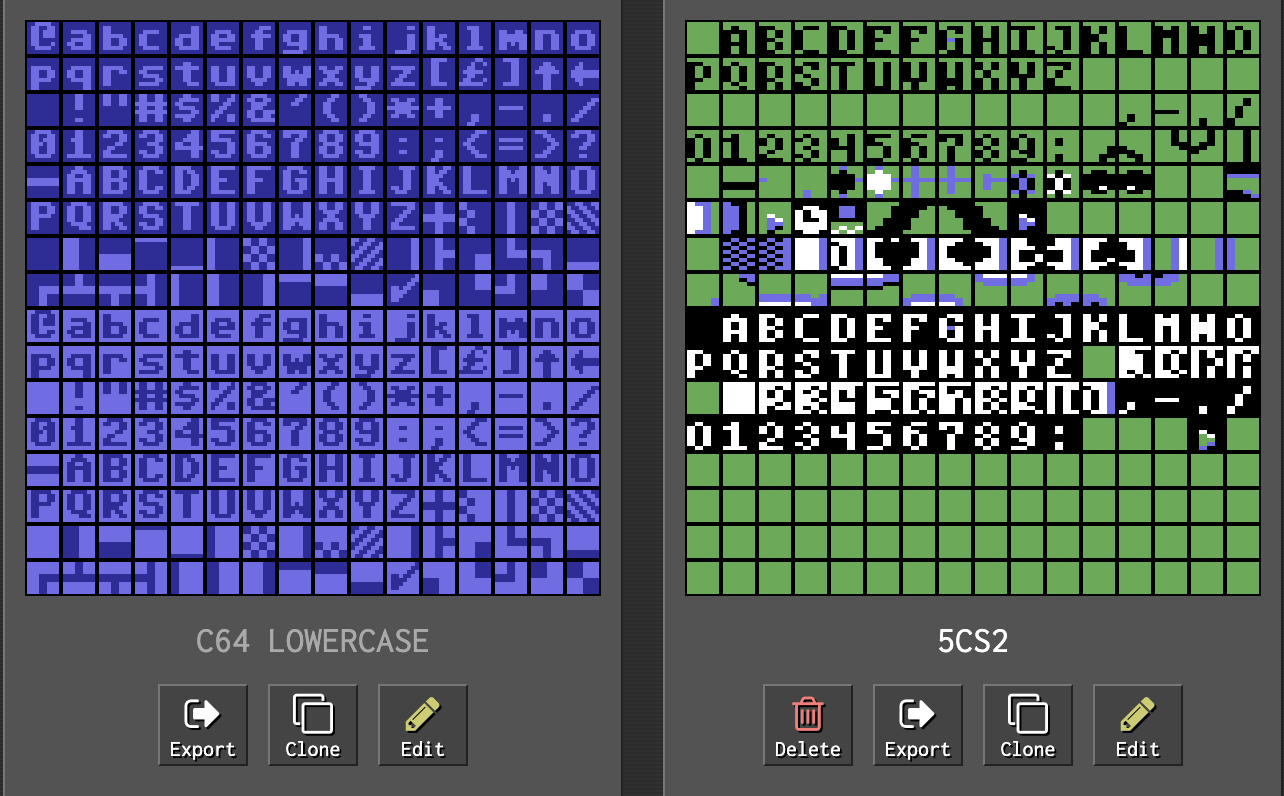
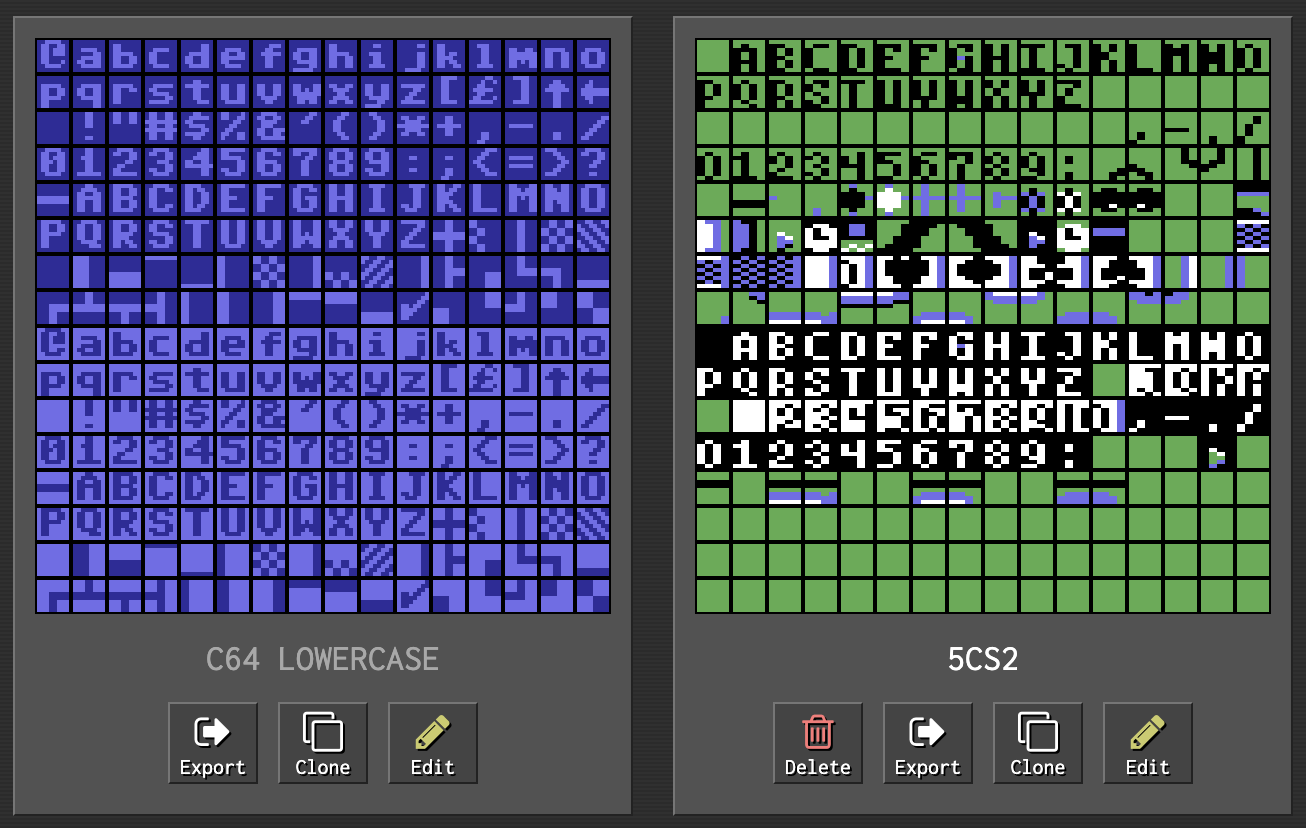
5CS - PLUS4 gfx, single/double buffer fix

diff --git a/5cardstud/cross-platform/src/plus4/charset.h b/5cardstud/cross-platform/src/plus4/charset.h
@@ -1,7 +1,7 @@
 #ifdef __PLUS4__
 
 const unsigned char charset[] = {
-  0,  0,  0,  0,  0,  0,  0,  0,
+    0,  0,  0,  0,  0,  0,  0,  0,
   0, 48,252,204,204,252,204,204,
   0,240,204,204,240,204,204,240,
   0, 60,192,192,192,192,192, 60,
@@ -60,7 +60,7 @@ const unsigned char charset[] = {
   0, 48,204,204, 48,204,204, 48,
   0, 48,204,204,204, 60, 12,240,
   0,  0, 48, 48,  0,  0, 48, 48,
-  0,  0,  0,  0,  3,  3, 15, 12,
+  0,  0,  0,  0,  0,  3, 15, 12,
   0,  0,  0,  0,192,240, 60, 12,
  12, 12, 12, 15,  3,  0,  0,  0,
  12, 12, 12, 60,240,192,  0,  0,
@@ -91,8 +91,8 @@ const unsigned char charset[] = {
 255, 63, 15, 15,  3,  3,  3,  0,
   0,192,192,192,240,240,252,255,
 255,255,255,239,219,215,223,255,
-  0,40,186,186,190,170,170,40,
-  0,  0,  0,  0,  0,  0,  0,  0,
+  0, 40,186,186,190,170,170, 40,
+255,255, 85, 85,255,255,255,255,
   0,  0,  0,  0,  0,  0,  0,  0,
   0,  0,  0,  0,  0,  0,  0,  0,
   0,  0,  0,  0,  0,  0,  0,  0,
@@ -123,8 +123,8 @@ const unsigned char charset[] = {
   0,  0,  0,  0,  0, 80, 84,164,
 106, 85, 21,  0,  0,  0,  0,  0,
 164, 84, 80,  0,  0,  0,  0,  0,
-  0,  0,  0,  0,  0, 21, 85,119,
-  0,  0,  0,  0,  0, 80, 84,116,
+  0,  0,  0,  0,  0, 21, 85, 85,
+  0,  0,  0,  0,  0, 80, 84, 84,
  93, 85, 21,  0,  0,  0,  0,  0,
 212, 84, 80,  0,  0,  0,  0,  0,
   0,  0,  0,  0,  0,  0,  0,  0,
@@ -193,18 +193,18 @@ const unsigned char charset[] = {
   0,  0,  0,  0,  0,  0,  0,  0,
 255,255,255,239,203,195,199,223,
   0,  0,  0,  0,  0,  0,  0,  0,
+  0,  0,255,255,  0,  0,  0,  0,
   0,  0,  0,  0,  0,  0,  0,  0,
-255,255,255,255, 85, 85,255,255,
-  0,  0,  0,  0,  0,  0,  0,  0,
-  0,  0,  0,  0,  0,  0,  0,  0,
-  0,  0,  0,  0,  0,  0,  0,  0,
-  0,  0,  0,  0,  0,  0,  0,  0,
+  0,  0,255,255,  0, 85, 85,170,
+  0,  0,255,255,  0, 81, 85,165,
   0,  0,  0,  0,  0,  0,  0,  0,
   0,  0,  0,  0,  0,  0,  0,  0,
+  0,  0,255,255,  0, 21, 85,106,
+  0,  0,255,255,  0, 80, 84,164,
   0,  0,  0,  0,  0,  0,  0,  0,
   0,  0,  0,  0,  0,  0,  0,  0,
-  0,  0,  0,  0,  0,  0,  0,  0,
-  0,  0,  0,  0,  0,  0,  0,  0,
+  0,  0,255,255,  0, 21, 85, 85,
+  0,  0,255,255,  0, 80, 84, 84,
   0,  0,  0,  0,  0,  0,  0,  0,
   0,  0,  0,  0,  0,  0,  0,  0,
   0,  0,  0,  0,  0,  0,  0,  0,
@@ -257,7 +257,6 @@ const unsigned char charset[] = {
   0,  0,  0,  0,  0,  0,  0,  0,
   0,  0,  0,  0,  0,  0,  0,  0,
   0,  0,  0,  0,  0,  0,  0,  0
-
   };
 
 #endif /* __PLUS4__ */

diff --git a/5cardstud/cross-platform/src/plus4/graphics.c b/5cardstud/cross-platform/src/plus4/graphics.c
@@ -230,14 +230,15 @@ void drawChip(unsigned char x, unsigned char y)
 
 void drawLine(unsigned char x, unsigned char y, unsigned char w)
 {
-    unsigned char o = y > 22 ? 0x80 : 0x00;
-    unsigned char c = y > 22 ? 0x80 : 0xFF; // Yellow multicolor
     unsigned char *loc = SCR + y*40+x;
-    unsigned char *cloc = SCREEN_COLORRAM_LOC + y*40+x;
-
+    unsigned char *cloc = loc-(SCR-SCREEN_COLORRAM_LOC);
+    unsigned char c = y > 22 ? 0x08 : 0xFF; // Yellow multicolor above status bar
+    
+    unsigned char o;
     while(w--)
     {
-        *loc++ = 0x41 + o;
+        o = y > 22 ? 0x5B : *loc<0x41 ? 0xC0 : *loc<0xC0 ? (*loc)+0x50 : *loc; 
+        *loc++ = o;
         *cloc++ = c;
     }
 }
@@ -245,13 +246,13 @@ void drawLine(unsigned char x, unsigned char y, unsigned char w)
 void hideLine(unsigned char x, unsigned char y, unsigned char w)
 {
     unsigned char o = y > 22 ? 0x80 : 0x00;
-    unsigned char c = y > 22 ? 0x80 : 0x08; // black multicolor
+    unsigned char c = y > 22 ? 0x08 : 0x08; // black multicolor
     unsigned char *loc = SCR + y*40+x;
-    unsigned char *cloc = SCREEN_COLORRAM_LOC + y*40+x;
+    unsigned char *cloc = loc-(SCR-SCREEN_COLORRAM_LOC);
 
     while(w--)
     {
-        *loc++ = 0x00 + o;
+        *loc++ = o;
         *cloc++ = c;
     }
 }

diff --git a/5cardstud/cross-platform/src/plus4/network.c b/5cardstud/cross-platform/src/plus4/network.c
@@ -40,10 +40,10 @@ int getResponse(char *url, unsigned char *buffer, uint16_t max_len)
 {
   int16_t count;
   int8_t  i, wait;
-
+  
   // Delete existing file
   cbm_open(15,11,15, "s:vice-in"); 
-
+    
   // Write command file (currently just the url )
   cbm_open(LFN,11,1,"vice-out"); 
   cbm_write(LFN, url, strlen(url)); 
@@ -62,15 +62,16 @@ int getResponse(char *url, unsigned char *buffer, uint16_t max_len)
     }
 
     // Short delay
-    for (i=0;i<10;i++) { 
-      waitvsync(); 
-    } 
+    pause(10);
 
     // Check if file exists by renaming it
     count = cbm_open(15,11,15, "r0:vice-out=vice-out"); 
     cbm_close(15); 
   } 
 
+  // Short delay
+  pause(20);
+    
   // Read the response into the buffer 
   cbm_open(LFN,11,0,"vice-in"); 
   count = cbm_read(LFN,buffer, max_len); 

diff --git a/5cardstud/cross-platform/src/screens.c b/5cardstud/cross-platform/src/screens.c
@@ -460,16 +460,22 @@ typedef struct {
   if (state.playerCount>1) {
     drawNamePurse();
     drawBets();
+#ifdef SINGLE_BUFFER
     if (state.round < 5) {
       drawCards(false);
     }
+#else
+    drawCards(false);
+#endif
   }
 
   drawGameStatus();
   drawBuffer();
   highlightActivePlayer();
 
+#ifdef SINGLE_BUFFER
   redrawGameScreen=0;
+#endif
   prevRound = state.round;
 }
 

diff --git a/5cardstud/cross-platform/src/gamelogic.c b/5cardstud/cross-platform/src/gamelogic.c
@@ -413,9 +413,9 @@ void animateChipsToPotOnRoundEnd() {
 
     if (playerDir[i]<0)
     #if WIDTH>=40
-      x-=5;
+    x-=5;
     #else
-      x-=4;
+    x-=4;
     #endif
 
     #if WIDTH>=40
@@ -424,6 +424,7 @@ void animateChipsToPotOnRoundEnd() {
     drawText(x, y, "    ");
     #endif
   }
+
   #endif
 
   drawBuffer();
